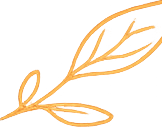
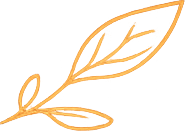
fix(landing): re-crop leaf sketch to include full right curl

Changed region(s): [[0.0, 0.0, 1.0, 1.0]]

diff --git a/src/app/page.tsx b/src/app/page.tsx
@@ -670,7 +670,7 @@ const SKETCH_NATURAL: Record<string, { w: number; h: number }> = {
   "/sketches/heart.png": { w: 218, h: 192 },
   "/sketches/heart-small.png": { w: 90, h: 81 },
   "/sketches/flower.png": { w: 206, h: 321 },
-  "/sketches/leaf.png": { w: 162, h: 127 },
+  "/sketches/leaf.png": { w: 185, h: 131 },
   "/sketches/floral.png": { w: 177, h: 574 },
 };
 